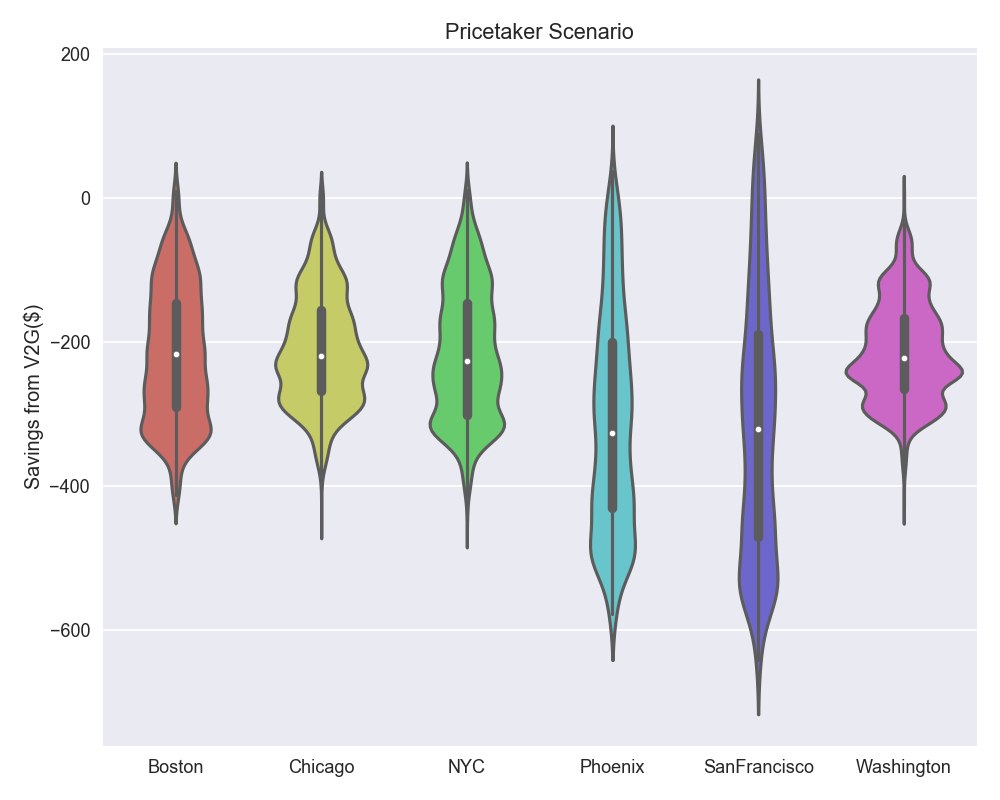
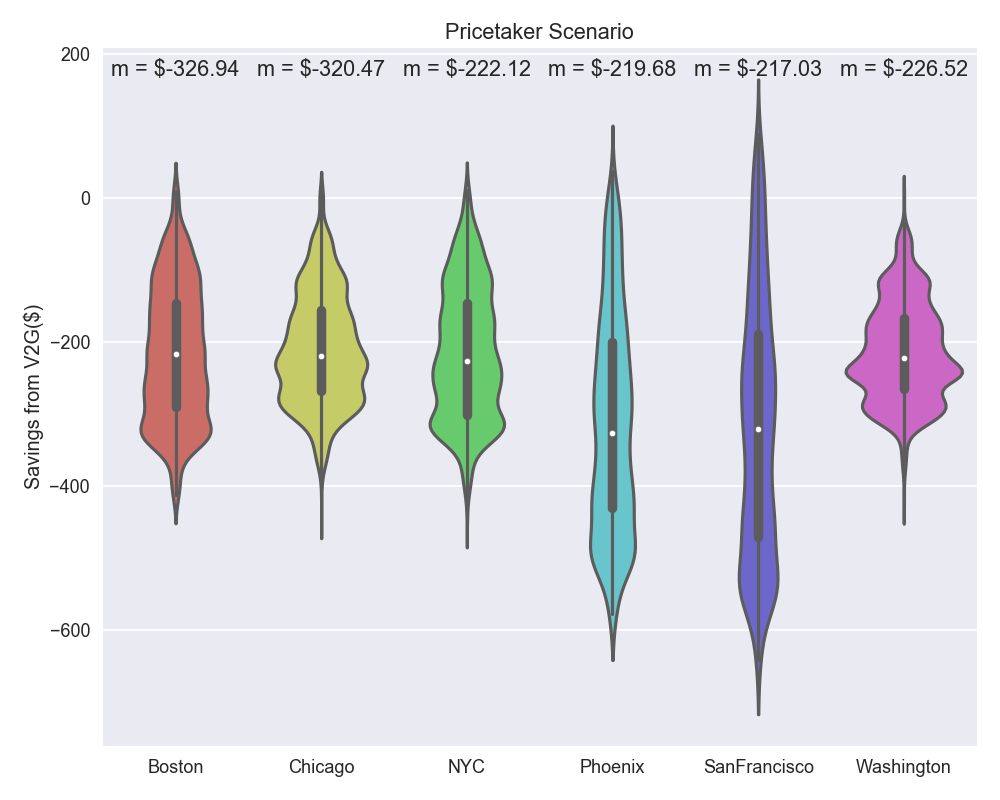
Made two slides for Gerad's result, updated graphs to have medians as texts

Changed region(s): [[0.403, 0.0625, 0.961, 0.0938], [0.124, 0.0625, 0.372, 0.0938]]

diff --git a/Research_slides/Research/index.html b/Research_slides/Research/index.html
@@ -85,14 +85,13 @@
 		</section>
 
 
-
 		<section data-background="#FFF">
 			<p> Methods </p>
 			<p class="left-align" style="font-size: 18pt">
 				Battery degradation cost$^1$ <br>$$c_{dgdn} = \frac{E_{s,max} c_b}{2\ DoD \ L_c E_{s,max}}$$<br>
 				$c_{dgdn}$: Cost of battery degradation<br>					
 				$E_{s,max}$: Battery capacity(kWh)<br>
-				$c_b$: Battery capital cost (&dollar/kWh)<br>
+				$c_b$: Battery capital cost (<span>&#36;</span> /kWh)<br>
 				$DoD$: Depth of discharge<br>
 				$L_c$: Battery lifecycles<br>
 			</p>
@@ -120,9 +119,20 @@
 		</section>
 
 		<section>
-		  <p> Results</p>
-
-			<img src="img/Gerad_results.svg" width="550px">
+		<p> Results</p>
+		<br>
+		<div class="frag-container">
+			<div class="fragment fade-out multi-frag" data-fragment-index="1">
+				<div>
+					<img src="img/Gerad_result_1.png" width="600px">
+				</div>
+			</div>
+			<div class="fragment fade-in multi-frag" data-fragment-index="1">
+				<div>
+					<img src="img/Gerad_result_2.png" width="600px">
+				</div>
+			</div>
+		</div><br><br><br><br><br><br><br><br>
 		  <div class="footnotes">
 		    Freeman GM, et al. <i> Energy Policy </i> <strong> 2017</strong> 106:183-190
 		  </div>
@@ -138,15 +148,21 @@
 			<div class="text-background-dark">
 		  <dl class="small">
 				<br>
-		    <dt> Assumptions of the model </dt>
-				<dd> Commute distance is constant at 7.7 miles.</dd> 
-				<dd> It takes 1 hour to commute between home and work.</dd>
-				<dd> Work day is always nine-to-five.</dd>
+			<dt> Assumptions of the model </dt>
+			<ul>
+				<li> Commute distance is constant at 7.7 miles.</li> 
+				<li> It takes 1 hour to commute between home and work.</li>
+				<li> Work day is always nine-to-five.</li>
+			</ul>
+				<br>
 				<br>
 			<dt> Problems </dt>
-				<dd> The model is deterministic.</dd>
-				<dd> Doesn't use <strong>Real data</strong> and <strong>Statistics</strong></dd>
-				<dd> EV Drivers may have variable behavior and work cultures.</dd> 
+			<ul>
+				<li> The model is deterministic.</li>
+				<li> It doesn't use <strong>Real data</strong> and <strong>Statistics</strong></li>
+				<li> EV Drivers may have variable behavior and work cultures.</li> 
+			</ul>
+				<br>
 				<br>
 				Let's try to modify the model to be more <strong>Realistic</strong>...
 				<br>  
@@ -212,12 +228,12 @@
 					<div class="frag-container">
 							<div class="fragment fade-out multi-frag" data-fragment-index="1">
 								<div>
-						<img src="img/multicity_pricetaker.png" width="750px">
+						<img src="img/multicity_pricetaker.png" width="700px">
 								</div>
 							</div>
 							<div class="fragment fade-in multi-frag" data-fragment-index="1">
 								<div>
-						<img src="img/multicity_violin.png" width="750px"/>
+						<img src="img/multicity_violin.png" width="700px"/>
 								</div>
 							</div>
 						</div>
@@ -229,20 +245,26 @@
 					<div class="frag-container">
 							<div class="fragment fade-out multi-frag" data-fragment-index="1">
 								<div>
-									<img src="img/var_bat_pricetaker.svg" width="750px">
+									<img src="img/var_bat_pricetaker.svg" width="700px">
 								</div>
 							</div>
 							<div class="fragment fade-in multi-frag" data-fragment-index="1">
 								<div>
-						<img src="img/var_bat_violin.svg" width="750px"/>
+						<img src="img/var_bat_violin.svg" width="700px"/>
 								</div>
 							</div>
 						</div>
 				</section>
 
 				<section hide-footer="yes">
+					<h6><strong>The cost of Lithium Ion Battery has been falling rapidly</strong><br>
+						<img src="img/battery_cost.png" width="700px">
+					</h6>
+					
+				</section>
+				<section hide-footer="yes">
 					<h6><strong>And finally extrapolated battery capital cost into the future to see how savings from V2G are affected!</strong><br>
-						<img src="img/future_cost.png" width="720px">
+						<img src="img/future_cost.png" width="700px">
 					</h6>
 					
 				</section>

diff --git a/mc_plots.py b/mc_plots.py
@@ -8,7 +8,7 @@ plt.rcParams['figure.figsize'] = (10.0, 8.0)
 sns.set(style= "darkgrid", context="talk", palette='hls')
 result_path = 'C:/Users/hetag/Desktop/Vehicle_to_grid/Results/2018-03-13/multi_city/'
 states = ['Arizona', 'California', 'DC', 'Illinois', 'Massachusetts', 'New York']
-best_sp = {'Arizona': 0.06, 'California': 0.06, 'DC': 0.12, 'Illinois': 0.06, 'Massachusetts': 0.18, 'New York':0.14}
+best_sp = {'Arizona': 0.06, 'California': 0.05, 'DC': 0.12, 'Illinois': 0.06, 'Massachusetts': 0.18, 'New York':0.14}
 cities = {'Arizona': 'Phoenix', 'California': 'SanFrancisco', 'DC': 'Washington', 'Illinois': 'Chicago', 'Massachusetts': 'Boston', 'New York':'NYC'}
 final_results = {}
 pt_results = {}
@@ -86,7 +86,7 @@ print(yposlist)
 xposlist = range(len(yposlist))
 print(xposlist)
 for i, s in zip(range(len(yposlist)), medians):
-    plt.text(xposlist[i], yposlist[i] + (130-yposlist[i]), 'm = {:.2f}'.format(medians[s]))
+    plt.text(xposlist[i], yposlist[i] + (130-yposlist[i]), 'm = ${:.2f}'.format(medians[s]), horizontalalignment='center')
 
 plt.tight_layout()
 # plt.show()
@@ -101,7 +101,7 @@ print(yposlist)
 xposlist = range(len(yposlist))
 print(xposlist)
 for i, s in zip(range(len(yposlist)), medians):
-    plt.text(xposlist[i], yposlist[i] + (180-yposlist[i]), 'm = {:.2f}'.format(pt_medians[s]))
+    plt.text(xposlist[i], yposlist[i] + (170-yposlist[i]), 'm = ${:.2f}'.format(pt_medians[s]), horizontalalignment='center')
 
 plt.tight_layout()
 plt.savefig(result_path + 'pt_violin.png')

diff --git a/bat_ex.py b/bat_ex.py
@@ -42,7 +42,7 @@ DoD = 0.9
 lifecycles = 5300		#for lithium ion battery from Gerad's article
 energy_throughput = 2*lifecycles*battery*DoD 		#Ln.Es.DoD (kWh)
 states = ['Arizona', 'California', 'DC', 'Illinois', 'Massachusetts', 'New York']
-best_sp = {'Arizona': 0.06, 'California': 0.06, 'DC': 0.12, 'Illinois': 0.06, 'Massachusetts': 0.18, 'New York':0.14}
+best_sp = {'Arizona': 0.06, 'California': 0.05, 'DC': 0.12, 'Illinois': 0.06, 'Massachusetts': 0.18, 'New York':0.14}
 
 cities = {'Arizona': 'Phoenix', 'California': 'SanFrancisco', 'DC': 'Washington', 'Illinois': 'Chicago', 'Massachusetts': 'Boston', 'New York':'NYC'}
 cities_reversed = {a:b for b,a in zip(cities.keys(), cities.values())}
@@ -81,7 +81,7 @@ for s in states:
 for key in sorted(cities_reversed):
     value = cities_reversed[key]
     x = list(final_results[value].keys())
-    y = [np.mean(a) for a in final_results[value].values()]
+    y = [np.median(a) for a in final_results[value].values()]
     yerr = np.sqrt(np.array([np.var(a, ddof = 1) for a in final_results[value].values()]) / sample)
     # plt.plot(x, y, '.', label = '{}'.format(key))
     plt.errorbar(x, y, yerr = yerr, fmt = '.', markeredgewidth=2, label = '{}'.format(key))

diff --git a/variable_battery.py b/variable_battery.py
@@ -10,6 +10,8 @@ from mpl_toolkits.mplot3d import Axes3D
 from pandas.tseries.holiday import USFederalHolidayCalendar
 import scipy.stats as ss
 
+plt.rcParams['figure.figsize'] = (10.0, 8.0)
+sns.set(style= "darkgrid", context="talk", palette='hls')
 # Required numbers
 Sample = 2559    #total EVs in NYC 2015
 prefix = 'C:/Users/hetag/Desktop/Vehicle_to_grid/'
@@ -330,8 +332,6 @@ for s in state_list:
 	colors = ['#ffff00','#40E0D0','#ff0000', '#191970']
 	alpha = [1, 0.7, 0.5, 0.3]
 
-	sns.set(context = 'talk', style = 'darkgrid', font= 'Times New Roman', palette= 'hls')
-	mlib.rcParams['figure.figsize'] = (10, 8)
 	cdgdn_commute = np.mean(final_commute_cdgdn)
 	cch_commute = np.mean(final_commute_cost - final_commute_cdgdn)
 	Annual_savings = np.zeros((x,Sample))

diff --git a/multi_city.py b/multi_city.py
@@ -239,7 +239,6 @@ for s in state_list:
 
 	#LBMP Data
 	data = pd.read_csv(prefix + lbmp_file, delimiter = ',')
-	print(type(data))
 	dates = pd.to_datetime(data['Time_Stamp'])
 	price = np.asarray(data.LBMP)/1000		#LBMP in kWh
 
